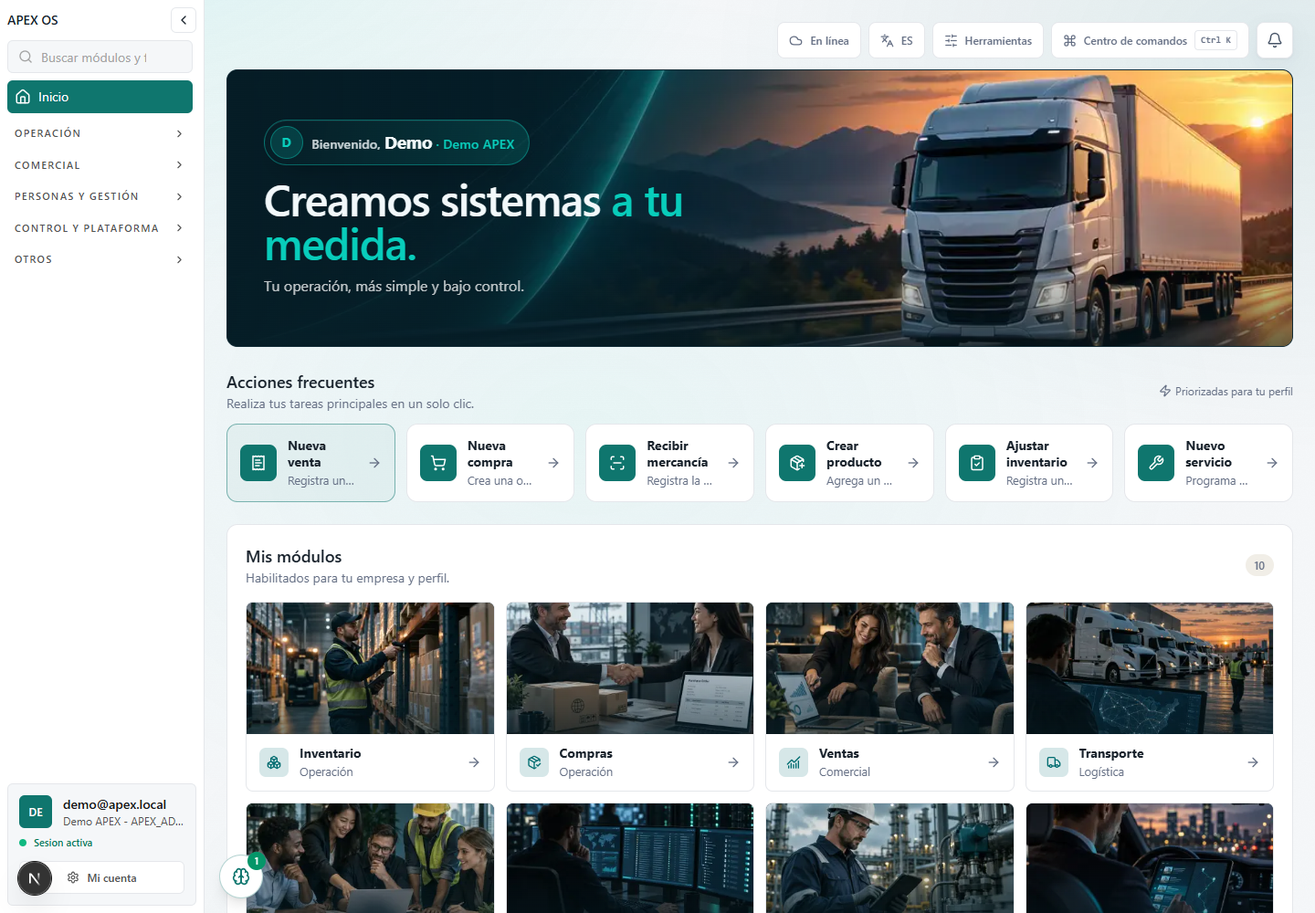
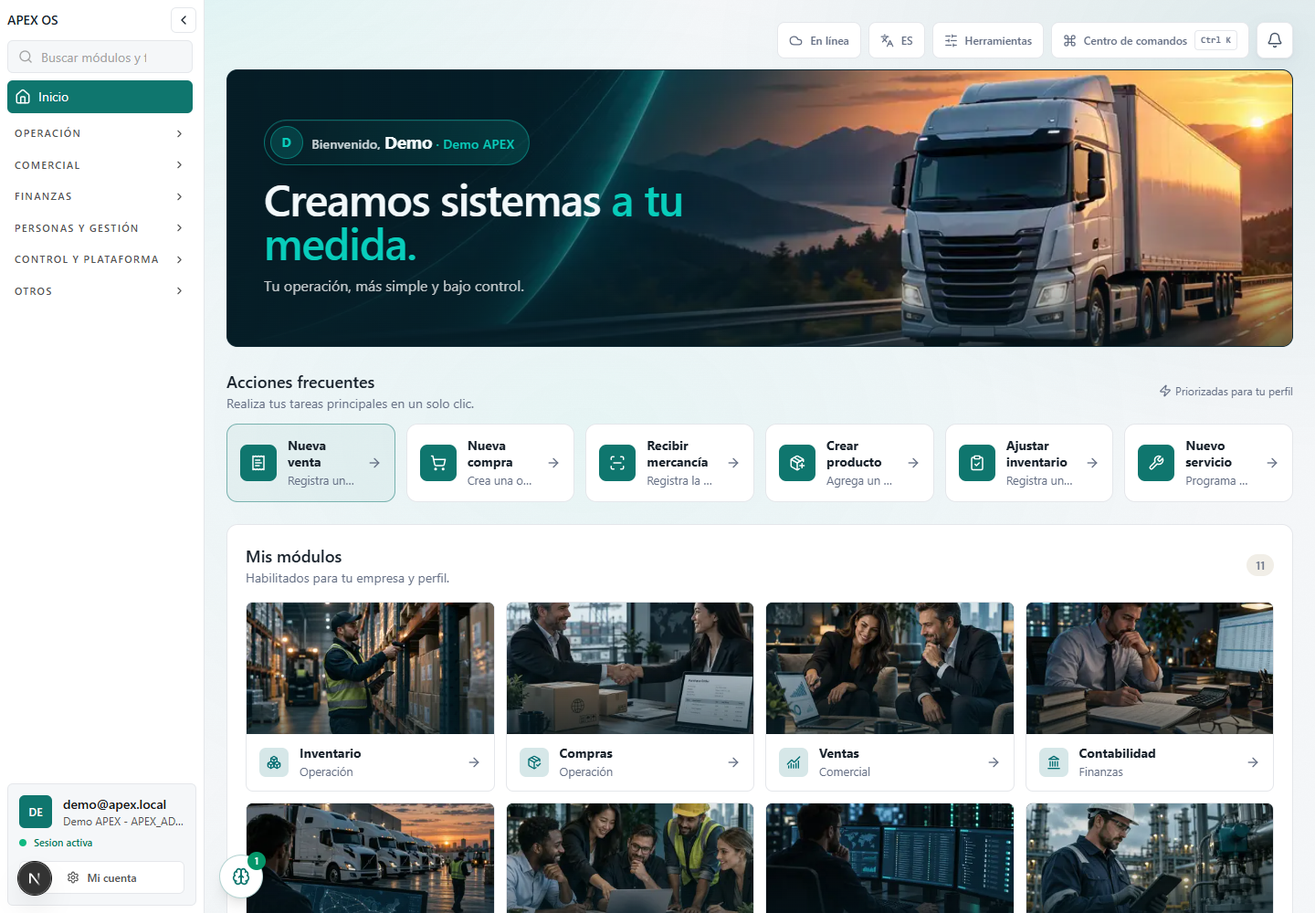
feat(web): contabilidad vuelve al portafolio visible
El dueño advirtió que Contabilidad había salido de la visual sin
autorización: el slug sale de RETIRED_MODULE_SLUGS y vuelven sus 11
funciones al buscador, con lo que el corte queda en 12 visibles y 20
retirados sobre 32 fichas. Tesorería, Proyectos, APEX Control, APEX AI
Core y Cartera y CxC siguen fuera; CxC conserva su guardia y sus enlaces
no regresan a Contabilidad, porque devolver el módulo no es reabrir una
ruta bloqueada.

Evidencia recapturada con sesión real: el lobby pasa de 10 a 11 tiles,
11 enlaces de barra, 0 retirados en tiles o barra, 0 candados y
desbordamiento 0 en ambos temas; «contabilidad» devuelve 10 opciones y
«pyg» 1, mientras los retirados restantes siguen en 0 y las cuatro URLs
de CxC terminan en /dashboard. Suite web 697/697, typecheck y ESLint
limpios.

Changed region(s): [[0.1875, 0.651, 0.9688, 1.0], [0.0, 0.248, 0.125, 0.31], [0.0312, 0.186, 0.0625, 0.217]]

diff --git a/apps/web/lib/moduleFunctions.ts b/apps/web/lib/moduleFunctions.ts
@@ -34,8 +34,21 @@ export const MODULE_FUNCTIONS: ModuleFunction[] = [
   { id: "fn-comercio-configuracion", label: "Configurar la vitrina del comercio", description: "Datos del negocio, redes, WhatsApp y campana de descuentos", href: "/dashboard/comercio/configuracion", module: "comercio", keywords: "configuracion vitrina publica codigo whatsapp instagram facebook campana descuento moneda comercio" },
   { id: "fn-comercio-promociones", label: "Gestionar promociones del comercio", description: "Campanas de descuento por categoria o producto y envio por WhatsApp", href: "/dashboard/comercio/promociones", module: "comercio", keywords: "promocion campana descuento mercadeo audiencia categoria producto whatsapp cliente comercio" },
 
-  // Contabilidad, Tesoreria, Facturacion y Cartera y CxC salieron de la oferta: sus rutas siguen
-  // publicadas, pero no se anuncian en el centro de comandos hasta que el modulo vuelva al portafolio.
+  // Tesoreria, Facturacion y Cartera y CxC salieron de la oferta: sus rutas siguen publicadas,
+  // pero no se anuncian en el centro de comandos hasta que el modulo vuelva al portafolio.
+
+  // Contabilidad
+  { id: "fn-contab-facturas-recibidas", label: "Recibir facturas electrónicas", description: "Monitor de facturas por correo: extracción XML/PDF, revisión y asignación", href: "/dashboard/contabilidad/facturas-recibidas", module: "contabilidad", keywords: "factura electronica recibida recibir correo imap zip xml pdf cufe asignar responsable revision dian proveedor monitor" },
+  { id: "fn-contab-saldos-iniciales", label: "Importar saldos iniciales", description: "Cargue de saldos contables de apertura", href: "/dashboard/contabilidad/importar-saldos-iniciales", module: "contabilidad", keywords: "saldo apertura inicial importar contabilidad" },
+  { id: "fn-contab-pyg", label: "Ver PYG por vehiculo", description: "Estado de resultados por placa: ingresos, gastos y utilidad contra presupuesto", href: "/dashboard/contabilidad/pyg", module: "contabilidad", keywords: "pyg estado resultados utilidad gastos vehiculo placa centro costo presupuesto cumplimiento rentabilidad" },
+  { id: "fn-contab-asientos", label: "Consultar asientos contables", description: "Revisa el registro contable y sus movimientos", href: "/dashboard/contabilidad/asientos", module: "contabilidad", keywords: "asiento contable libro diario comprobante registro movimiento" },
+  { id: "fn-contab-cxp", label: "Gestionar cuentas por pagar", description: "Obligaciones con proveedores y pagos", href: "/dashboard/contabilidad/cuentas-por-pagar", module: "contabilidad", keywords: "cuentas por pagar cxp proveedor obligacion pago cartera" },
+  { id: "fn-contab-estructura", label: "Configurar estructura contable", description: "Centros de costo, periodos y cierre", href: "/dashboard/contabilidad/estructura", module: "contabilidad", keywords: "estructura centro de costo periodo cierre configuracion" },
+  { id: "fn-contab-iva", label: "Gestionar IVA", description: "Maestro y control del impuesto sobre las ventas", href: "/dashboard/contabilidad/iva", module: "contabilidad", keywords: "iva impuesto declaracion ventas tributo" },
+  { id: "fn-contab-plan", label: "Ver plan de cuentas", description: "Catalogo contable de la empresa", href: "/dashboard/contabilidad/plan-cuentas", module: "contabilidad", keywords: "plan cuentas puc catalogo contable" },
+  { id: "fn-contab-reportes", label: "Ver balance de prueba", description: "Estados financieros y saldos por cuenta", href: "/dashboard/contabilidad/reportes", module: "contabilidad", keywords: "balance prueba estados financieros reporte contable libro mayor" },
+  { id: "fn-contab-retenciones", label: "Gestionar retenciones contables", description: "Retenciones practicadas y registradas", href: "/dashboard/contabilidad/retenciones", module: "contabilidad", keywords: "retencion retefuente reteiva impuesto" },
+  { id: "fn-contab-terceros", label: "Gestionar terceros contables", description: "Clientes, proveedores y su informacion fiscal", href: "/dashboard/contabilidad/terceros", module: "contabilidad", keywords: "tercero cliente proveedor nit informacion fiscal" },
 
   // Gastos Menores
   { id: "fn-gm-nuevo-gasto", label: "Registrar gasto menor", description: "Crear un comprobante de caja menor", href: "/dashboard/gastos-menores/gastos/nuevo", module: "gastos-menores", keywords: "nuevo gasto menor registrar comprobante" },

diff --git a/apps/web/lib/modules.ts b/apps/web/lib/modules.ts
@@ -411,7 +411,6 @@ const RETIRED_MODULE_SLUGS = new Set([
   "facturacion-electronica",
   "configuracion-inicial",
   "suscripciones",
-  "contabilidad",
   "tesoreria",
   "proyectos",
   "apex-control",

diff --git a/docs/briefs/2026-11-12-curaduria-portafolio.md b/docs/briefs/2026-11-12-curaduria-portafolio.md
@@ -1,4 +1,4 @@
-# Brief — Curaduría del portafolio: 11 visibles y 21 retirados
+# Brief — Curaduría del portafolio: 12 visibles y 20 retirados
 
 - **ID**: `2026-11-12-curaduria-portafolio`
 - **Fecha**: `2026-11-12`
@@ -21,26 +21,29 @@
   `active_modules` dejan de verse igual, porque el portafolio filtra antes de la habilitación.
 - **Lógica de negocio intacta**: no se cambian consultas, permisos ni datos. El corte es de
   presentación del catálogo; `loadModuleAccess` sigue calculando habilitación exactamente igual.
-- **Corrección de la lista y cierre en 11.** Al recorrer el catálogo completo apareció **APEX AI
+- **Corrección de la lista y cierre en 12.** Al recorrer el catálogo completo apareció **APEX AI
   Core** (`id: "AI-CORE"`), que la tabla previa omitió por su identificador no numérico: el primer
   corte real fue 18/14 sobre 32 fichas. El dueño luego pidió retirar **Facturación** (17/15), marcó
   con X **Contabilidad, Tesorería, Proyectos, APEX Control y APEX AI Core** porque «aún falta mucho
   para trabajarlos» (12/20) y, al final, pidió ocultar **Cartera y CxC** porque «aún no tiene
-  funcionalidad». El corte final es **11 visibles / 21 retirados**.
-- **Siete retirados conservan superficie: se retiran de la oferta, no del código.** Facturación,
-  Contabilidad, Tesorería, Proyectos, APEX Control y APEX AI Core tenían pantalla raíz publicada y
-  siguen respondiendo por URL; **Cartera y CxC** nunca tuvo ficha raíz y, por pedido posterior del
-  dueño («bloquear las rutas de CxC con redirección»), se **cierra con redirección al lobby**: la
-  guardia vive en `app/dashboard/cxc/layout.tsx` para todas sus subrutas y `app/dashboard/cxc/page.tsx`
+  funcionalidad» (11/21). Ese corte se aplicó; el mismo día el dueño advirtió que **Contabilidad**
+  había salido de la visual «sin autorización», así que el slug vuelve a la oferta y sus 11 funciones
+  al buscador: el corte vigente es **12 visibles / 20 retirados**. La X sobre la captura queda como
+  antecedente, no como decisión vigente.
+- **Cinco retirados conservan superficie: se retiran de la oferta, no del código.** Facturación,
+  Tesorería, Proyectos, APEX Control y APEX AI Core tenían pantalla raíz publicada y siguen
+  respondiendo por URL; **Cartera y CxC** nunca tuvo ficha raíz y, por pedido posterior del dueño
+  («bloquear las rutas de CxC con redirección»), se **cierra con redirección al lobby**: la guardia
+  vive en `app/dashboard/cxc/layout.tsx` para todas sus subrutas y `app/dashboard/cxc/page.tsx`
   cubre la raíz. Sus pantallas quedan en el repositorio detrás de la guardia para cuando el módulo
-  vuelva. Se quitan **17 entradas de oferta** (2 de Facturación, 11 de Contabilidad, 1 de Tesorería y
-  3 de CxC), la tarjeta y el enlace que Contabilidad todavía apuntaban a CxC, y el override
-  `moduleHome("cxc")`; ninguna ruta bloqueada puede seguir siendo destino anunciado. La prueba del
-  portafolio declara seis excepciones con ruta heredada y una bloqueada con redirect.
-- **Consecuencia declarada: una superficie queda solo por URL.** El monitor certificado de **Facturas
-  recibidas** (`/dashboard/contabilidad/facturas-recibidas`) pierde su entrada de oferta, sigue
-  cargando por URL directa y deja de anunciarse en el centro de comandos hasta que Contabilidad
-  vuelva al portafolio. La bandeja de CxC, en cambio, ya no es alcanzable.
+  vuelva. Se quitan **6 entradas de oferta** (2 de Facturación, 1 de Tesorería y 3 de CxC), la
+  tarjeta y el enlace que Contabilidad todavía apuntaban a CxC, y el override `moduleHome("cxc")`;
+  ninguna ruta bloqueada puede seguir siendo destino anunciado. La prueba del portafolio declara
+  cinco excepciones con ruta heredada y una bloqueada con redirect.
+- **Consecuencia declarada: la bandeja de CxC queda solo detrás de la guardia.** El monitor
+  certificado de **Facturas recibidas** (`/dashboard/contabilidad/facturas-recibidas`) sigue
+  anunciado por Contabilidad y en el buscador; la tarjeta «Cuentas por cobrar» de Contabilidad y la
+  bandeja de CxC ya no son alcanzables mientras la guardia esté activa.
 - **Verificación funcional de no-regresión**: suite web **697/697**, `typecheck` limpio y ESLint
   sin errores.
 
@@ -52,12 +55,12 @@ perder el trabajo de fichas y assets:
 1. **Criterio medido, no el campo `status`.** Se clasificó por pantalla real, llamada a API y
    certificación. `status` estaba desactualizado: marcaba «En construcción» a Ventas, Facturación,
    Tesorería, Transporte y Talento humano, todos con flujo real.
-2. **Retirar 21 fichas sin borrarlas.** Punto de venta, Costos, Presupuestos, Producción, Recetas,
+2. **Retirar 20 fichas sin borrarlas.** Punto de venta, Costos, Presupuestos, Producción, Recetas,
    Calidad, Devoluciones, Comercio exterior, Activos, CRM, Planeación de demanda, Facturación,
-   Facturación electrónica, Configuración inicial, Suscripciones, Contabilidad, Tesorería,
-   Proyectos, APEX Control, APEX AI Core y Cartera y CxC dejan de ofrecerse; las 14 sin pantalla
-   solo abrían la página genérica `[module]`, las seis con raíz conservan sus rutas publicadas y
-   CxC se bloquea con redirección al lobby.
+   Facturación electrónica, Configuración inicial, Suscripciones, Tesorería, Proyectos, APEX Control,
+   APEX AI Core y Cartera y CxC dejan de ofrecerse; las 14 sin pantalla solo abrían la página
+   genérica `[module]`, las cinco con raíz conservan sus rutas publicadas y CxC se bloquea con
+   redirección al lobby. **Contabilidad permanece visible** por decisión del dueño.
 3. **Corregir la ficha de lo que sí opera.** Ventas, Facturación y Tesorería pasan a «Base
    funcional»; Transporte y Talento humano a «Listo para operar».
 
@@ -65,16 +68,16 @@ perder el trabajo de fichas y assets:
 
 | Estado | Archivo | Qué cambia |
 |---|---|---|
-| `M` | `apps/web/lib/modules.ts` | Constante `RETIRED_MODULE_SLUGS` (21), helpers `isPortfolioModule`/`isRetiredModuleSlug` y listas derivadas `PORTFOLIO_MODULES`/`RETIRED_MODULES`; estados corregidos en 5 fichas |
+| `M` | `apps/web/lib/modules.ts` | Constante `RETIRED_MODULE_SLUGS` (20), helpers `isPortfolioModule`/`isRetiredModuleSlug` y listas derivadas `PORTFOLIO_MODULES`/`RETIRED_MODULES`; estados corregidos en 5 fichas |
 | `M` | `apps/web/app/dashboard/page.tsx` | Lobby filtra por `PORTFOLIO_MODULES` y enlaza con `moduleHome` (CxC abre su superficie real, no la ficha genérica) |
 | `M` | `apps/web/components/shell/Sidebar.tsx` | La barra solo construye ítems del portafolio y usa `moduleHome`: los retirados desaparecen en lugar de quedar como candados |
 | `M` | `apps/web/components/system/CommandPalette.tsx` | Acciones, funciones y módulos del buscador exigen que el módulo esté en el portafolio |
-| `M` | `apps/web/lib/moduleFunctions.ts`, `apps/web/lib/operationalWorkspace.ts` | Salen 17 entradas de oferta: 2 de Facturación, 11 de Contabilidad, 1 de Tesorería y 3 de CxC; además se retira el override `moduleHome("cxc")` porque su destino ya no es alcanzable |
+| `M` | `apps/web/lib/moduleFunctions.ts`, `apps/web/lib/operationalWorkspace.ts` | Salen 6 entradas de oferta (2 de Facturación, 1 de Tesorería y 3 de CxC) y vuelven las 11 de Contabilidad; además se retira el override `moduleHome("cxc")` porque su destino ya no es alcanzable |
 | `M` | `apps/web/app/dashboard/[module]/page.tsx` | Un slug retirado responde `notFound()` aunque el tenant conserve su código en `active_modules` |
 | `A` | `apps/web/app/dashboard/cxc/layout.tsx`, `apps/web/app/dashboard/cxc/page.tsx` | Guardia de la ruta bloqueada: `redirect("/dashboard")` para todas las subrutas de CxC y para su raíz |
 | `M` | `apps/web/app/dashboard/contabilidad/page.tsx`, `apps/web/components/contabilidad-nav.tsx` | Salen la tarjeta y el enlace «Cuentas por cobrar» que todavía apuntaban a la ruta bloqueada |
-| `M` | `apps/web/test/command-palette-module-functions.test.mjs`, `apps/web/test/commercial-visit-selection.test.mjs` | Afirman el nuevo contrato de filtro, `moduleHome`, la exención de rutas de un retirado, que PYG deja de ofrecerse y que la oferta no nombra `/dashboard/cxc` |
-| `A` | `apps/web/test/module-portfolio.test.mjs` | 6 pruebas: 32 fichas / 11 visibles / 21 retirados, pantalla propia por visible, retirado sin pantalla fuera de la ficha genérica, seis excepciones con ruta heredada y una bloqueada con redirect (layout y página), consumidores filtrados, 404 directo, estados corregidos y funciones sin destinos retirados |
+| `M` | `apps/web/test/command-palette-module-functions.test.mjs`, `apps/web/test/commercial-visit-selection.test.mjs` | Afirman el nuevo contrato de filtro, `moduleHome`, la exención de rutas de un retirado, que PYG se ofrece por Contabilidad y que la oferta no nombra `/dashboard/cxc` |
+| `A` | `apps/web/test/module-portfolio.test.mjs` | 6 pruebas: 32 fichas / 12 visibles / 20 retirados, pantalla propia por visible, retirado sin pantalla fuera de la ficha genérica, cinco excepciones con ruta heredada y una bloqueada con redirect (layout y página), consumidores filtrados, 404 directo, estados corregidos y funciones sin destinos retirados |
 | `A` | `docs/qa/evidence/lobby-v4-20261110/evidence-portfolio-lobby-{light,dark}.png`, `evidence-portfolio-metrics.json` | Capturas del lobby con sesión real y métricas de tiles, barra, buscador y URL directa |
 | `M` | `docs/qa/evidence/lobby-v4-20261110/validacion.md` | Ronda 10, filas de cambios y recuento de suite |
 | `A` | `docs/briefs/2026-11-12-curaduria-portafolio.md` | Este brief |
@@ -108,7 +111,7 @@ perder el trabajo de fichas y assets:
 - El certificador `certify-ui-ux-phase-two-local.mjs` exige «Bienvenido,» y «Priorizadas para tu
   perfil»; el lobby conserva ambos.
 - Un módulo visible no puede carecer de pantalla; la prueba lo verifica contra el sistema de archivos.
-- Un retirado no puede reaparecer por `active_modules`, buscador ni URL directa, salvo las seis rutas
+- Un retirado no puede reaparecer por `active_modules`, buscador ni URL directa, salvo las cinco rutas
   heredadas declaradas. CxC no es una de ellas: su raíz y sus subrutas redirigen.
 
 ## 5. Criterios de aceptación
@@ -116,29 +119,31 @@ perder el trabajo de fichas y assets:
 1. `cd apps/web && node --test "test/*.test.mjs"` → **697/697** en verde.
 2. `node --test test/module-portfolio.test.mjs` → **6/6**.
 3. `tsc --noEmit` sin hallazgos y ESLint sin errores.
-4. Evidencia (`evidence-portfolio-metrics.json`): lobby con **10 tiles** para el tenant demo
-   (11 publicados menos Gastos Menores, que no está habilitado en ese tenant), **0** slugs retirados
-   en tiles o barra, **0** candados en la barra, buscador sin fichas ni funciones retiradas
-   («tesoreria», «proyectos», «apex control», «apex ai», «pyg», «cuentas por cobrar» y «crm» → 0) y
-   las fichas genéricas de `punto-de-venta` y `configuracion-inicial` con **404**.
-   Las seis rutas heredadas —`/dashboard/facturacion`, `/dashboard/contabilidad`,
-   `/dashboard/contabilidad/facturas-recibidas`, `/dashboard/tesoreria`, `/dashboard/proyectos`,
+4. Evidencia (`evidence-portfolio-metrics.json`): lobby con **11 tiles** para el tenant demo
+   (12 publicados menos Gastos Menores, que no está habilitado en ese tenant), **0** slugs retirados
+   en tiles o barra, **0** candados en la barra, buscador con **Contabilidad** (10 opciones, incluidas
+   «Recibir facturas electrónicas», «Ver PYG por vehiculo» y «Consultar asientos contables») y sin
+   fichas ni funciones de los retirados restantes («tesoreria», «proyectos», «apex control», «apex
+   ai», «cuentas por cobrar» y «crm» → 0); las fichas genéricas de `punto-de-venta` y
+   `configuracion-inicial` responden **404**.
+   Las cinco rutas heredadas —`/dashboard/facturacion`, `/dashboard/tesoreria`, `/dashboard/proyectos`,
    `/dashboard/apex-control` y `/dashboard/apex-ai`— siguen cargando su pantalla, y las cuatro URLs
    de CxC —`/dashboard/cxc`, `/documentos`, `/retenciones` y `/clientes/1/estado-cuenta`— terminan
    en `/dashboard`. Desbordamiento horizontal `0` en claro y oscuro. `/dashboard/compras`,
-   `/dashboard/comercio`, `/dashboard/inventario`, `/dashboard/ventas` y
-   `/dashboard/talento-humano/rutas` abren pantallas reales.
+   `/dashboard/comercio`, `/dashboard/contabilidad`, `/dashboard/contabilidad/facturas-recibidas`,
+   `/dashboard/inventario`, `/dashboard/ventas` y `/dashboard/talento-humano/rutas` abren pantallas
+   reales.
 5. Las capturas muestran sesión real (`demo@apex.local`, «Sesión activa»).
 
 ## 6. Evidencia y certificación exigida
 
 - Pruebas: suite web **697/697** y `module-portfolio.test.mjs` **6/6**.
 - Evidencia: `docs/qa/evidence/lobby-v4-20261110/evidence-portfolio-lobby-{light,dark}.png` y
-  `evidence-portfolio-metrics.json`; rondas 10 y 11 en `validacion.md`.
-- Nota de lectura del buscador: «punto de venta» devuelve «Vender en el mostrador» y «presupuesto»
-  «Gestionar presupuestos comerciales», ambas funciones de módulos visibles; las consultas de los
-  retirados —incluida «cuentas por cobrar»— devuelven cero resultados; ninguna coincidencia es una
-  ficha ni una función retirada.
+  `evidence-portfolio-metrics.json`; rondas 10, 11 y 12 en `validacion.md`.
+- Nota de lectura del buscador: «punto de venta» devuelve «Vender en el mostrador», «presupuesto»
+  «Gestionar presupuestos comerciales» y «contabilidad» las funciones del módulo devuelto; las
+  consultas de los retirados restantes —incluida «cuentas por cobrar»— devuelven cero resultados;
+  ninguna coincidencia es una ficha ni una función retirada.
 - `certification_status` esperado: `local_passed_qa_pending`.
 
 ## 7. Capacidades protegidas
@@ -159,16 +164,17 @@ perder el trabajo de fichas y assets:
 - Riesgo: que el buscador siga mostrando palabras de un retirado → Medido: solo aparecen funciones
   de módulos visibles; la prueba impide que una función apunte a un retirado.
 - Riesgo: que un flujo certificado dependa de una entrada de oferta retirada → Medido: Facturas
-  recibidas sigue cargando por URL y se declara como consecuencia; si el dueño la quiere de vuelta en
-  el buscador, basta devolver su entrada sin reabrir el módulo completo. CxC ya no es alcanzable y
-  por eso se quitaron también los enlaces que desde Contabilidad apuntaban a ella.
+  recibidas sigue anunciada por Contabilidad y carga por URL; la bandeja de CxC queda detrás de la
+  guardia y por eso se quitaron también los enlaces que desde Contabilidad apuntaban a ella.
 
 ## 9. Supuestos y preguntas abiertas
 
 - Supuesto: retirar del portafolio no exige borrar fichas ni assets; se conservan para retomarlos.
-- Decisión del dueño: el portafolio queda en **11 visibles**; Contabilidad, Tesorería, Proyectos,
-  APEX Control y APEX AI Core salen de la oferta y conservan sus rutas publicadas. Cartera y CxC
-  sale de la oferta **y se bloquea con redirección al lobby**, por pedido explícito posterior.
+- Decisión del dueño: el portafolio queda en **12 visibles**; **Contabilidad permanece en la oferta**
+  tras la corrección del 2026-11-12 («has eliminado de la visual el modulo de contabilidad sin
+  autorizacion»). Tesorería, Proyectos, APEX Control y APEX AI Core salen de la oferta y conservan
+  sus rutas publicadas. Cartera y CxC sale de la oferta **y se bloquea con redirección al lobby**,
+  por pedido explícito posterior.
 - CxC conserva sus pantallas en el repositorio detrás de `app/dashboard/cxc/layout.tsx`; reabrir el
   módulo es quitar la guardia y devolver su oferta, no reconstruir la pantalla.
 - Deuda declarada: alinear `SEED_MODULES` y el plan crown en la API requiere su propia ronda con
@@ -177,9 +183,11 @@ perder el trabajo de fichas y assets:
 ## 10. Autorizaciones requeridas
 
 - [x] Implementación en `desarrollo` (decisión del dueño: corte de portafolio).
-- [x] Portafolio en 11 visibles con Contabilidad, Tesorería, Proyectos, APEX Control, APEX AI Core y
-  Cartera y CxC retirados de la oferta (decisión explícita del dueño, la última con el texto
-  «cartera y cxc también debemos ocultarlo aún no tiene funcionalidad»).
+- [x] Portafolio en 12 visibles con Tesorería, Proyectos, APEX Control, APEX AI Core y Cartera y CxC
+  retirados de la oferta (decisión explícita del dueño, la última con el texto «cartera y cxc
+  también debemos ocultarlo aún no tiene funcionalidad»).
+- [x] Contabilidad vuelve a la oferta (instrucción explícita del dueño: «has eliminado de la visual
+  el modulo de contabilidad sin autorizacion»).
 - [x] Bloqueo de las rutas de Cartera y CxC con redirección al lobby (pedido explícito del dueño:
   «bloquear las rutas de CxC con redirección»).
 - [x] No tocar seeds del backend (decisión explícita del dueño).
@@ -189,10 +197,10 @@ perder el trabajo de fichas y assets:
 
 - **Preflight de agentes**: `OK`; ruteo `equipo-apexos`, `apexos-brief`, `apexos-frontend` y
   `apexos-qa`.
-- **Documentación actualizada**: este brief y `validacion.md` (rondas 10 y 11).
-- **Agentes actualizados**: `apexos-frontend` 2.23.4, `apexos-qa` 2.52.3, `equipo-apexos` 2.30.3 y
-  `apexos-brief` 2.43.3 (el corte de 21 retirados con seis rutas heredadas y CxC bloqueado con
-  redirección).
+- **Documentación actualizada**: este brief y `validacion.md` (rondas 10, 11 y 12).
+- **Agentes actualizados**: `apexos-frontend` 2.24.0, `apexos-qa` 2.54.0, `apexos-brief` 2.45.0 y
+  `equipo-apexos` 2.32.0 (el corte de 20 retirados con cinco rutas heredadas, CxC bloqueado con
+  redirección y Contabilidad devuelta a la oferta por corrección del dueño).
 - **Registro**: `agents/registry.json` y `agents/CHANGELOG.md` en el mismo commit.
 - **Secuencia de cierre**: `agents:sync` → `agents:check` → `test:agents` → `agents:preflight` →
   `agents:coverage` → pruebas → commit → `git push origin desarrollo`.

diff --git a/docs/qa/evidence/lobby-v4-20261110/validacion.md b/docs/qa/evidence/lobby-v4-20261110/validacion.md
@@ -8,6 +8,28 @@ queda sin intervenir hasta la aprobación explícita de la siguiente fase. La ca
 ronda 6 es la excepción deliberada: vive en el layout raíz porque el dueño pidió que el fondo sea
 «aplicable a todas las ventanas», sin cambiar el contenido ni la lógica de ningún módulo.
 
+## Ronda 12 (Contabilidad vuelve a la oferta)
+
+- **Corrección del dueño sobre el corte.** «Veo que estás eliminando visuales que no te pedí … has
+  eliminado de la visual el módulo de Contabilidad sin autorización». El slug `contabilidad` sale de
+  `RETIRED_MODULE_SLUGS` y sus **11 funciones vuelven** al centro de comandos; el portafolio queda en
+  **12 visibles / 20 retirados** sobre 32 fichas. La ficha, sus pantallas y sus assets nunca se
+  borraron, así que la reversión fue quitar el slug del set.
+- **Sin tocar lo que sí se pidió.** Tesorería, Proyectos, APEX Control, APEX AI Core, Facturación y
+  Cartera y CxC siguen retirados, y CxC conserva la guardia que redirige al lobby. La tarjeta y el
+  enlace «Cuentas por cobrar» de Contabilidad siguen fuera: su destino es una ruta bloqueada, y
+  restaurarlos devolvería al usuario al lobby desde una acción anunciada.
+- **Medido, no afirmado.** Con sesión real: **11 tiles** en el lobby (12 publicados menos Gastos
+  Menores, sin derecho en el tenant demo), 11 enlaces de módulo en la barra, 0 slugs retirados en
+  tiles o barra, 0 candados y desbordamiento horizontal 0 en ambos temas. En el buscador
+  «contabilidad» devuelve **10 opciones** (ficha, facturas electrónicas, saldos iniciales, PYG,
+  asientos, cuentas por pagar…) y «pyg» devuelve «Ver PYG por vehiculo»; «tesoreria», «proyectos»,
+  «apex control», «apex ai», «cuentas por cobrar» y «crm» siguen en 0.
+- **Rutas.** `/dashboard/contabilidad` y `/dashboard/contabilidad/facturas-recibidas` cargan su
+  pantalla real; las cuatro URLs de CxC siguen terminando en `/dashboard`.
+- **Verificación.** Suite web **697/697**, `module-portfolio.test.mjs` **6/6** (32 fichas / 12
+  visibles / 20 retirados), `typecheck` limpio y ESLint sin errores.
+
 ## Ronda 11 (Cartera y CxC se bloquea con redirección)
 
 - **El dueño pidió cerrar el acceso, no solo la oferta.** «Bloquear las rutas de CxC con redirección»: la raíz `/dashboard/cxc` y sus cuatro subrutas vuelven al lobby con `redirect("/dashboard")`. Las pantallas permanecen en el repositorio detrás de la guardia para cuando el módulo vuelva, pero ya no se renderizan.
@@ -260,12 +282,12 @@ ronda 6 es la excepción deliberada: vive en el layout raíz porque el dueño pi
 | `apps/web/app/globals.css` | M — ronda 9: `.apex-lobby-eyebrow` como cápsula que abraza su contenido, con avatar, copia, nombre y empresa por nivel tipográfico |
 | `apps/web/test/lobby-greeting.test.mjs` | A — 2 pruebas de contrato: estructura del saludo con avatar y nombre, y escala tipográfica sin desbordar el chip |
 | `docs/qa/evidence/lobby-v4-20261110/evidence-greeting-*.png` y `evidence-greeting-metrics.json` | A — cuatro capturas del hero (escritorio/móvil, claro/oscuro) con métricas medidas |
-| `apps/web/lib/modules.ts` | M — ronda 10: `RETIRED_MODULE_SLUGS`, helpers y listas del portafolio (11 visibles / 21 retirados); estados corregidos en Ventas, Facturación, Tesorería, Transporte y Talento humano |
+| `apps/web/lib/modules.ts` | M — ronda 10: `RETIRED_MODULE_SLUGS`, helpers y listas del portafolio (12 visibles / 20 retirados tras la ronda 12); estados corregidos en Ventas, Facturación, Tesorería, Transporte y Talento humano |
 | `apps/web/app/dashboard/page.tsx`, `apps/web/components/shell/Sidebar.tsx` | M — filtran por `PORTFOLIO_MODULES` y enlazan con `moduleHome`; los retirados dejan de pintarse |
 | `apps/web/components/system/CommandPalette.tsx`, `apps/web/app/dashboard/[module]/page.tsx` | M — el buscador exige portafolio y la ficha genérica de un retirado responde 404 |
-| `apps/web/lib/moduleFunctions.ts`, `apps/web/lib/operationalWorkspace.ts` | M — salen 17 entradas de oferta (2 de Facturación, 11 de Contabilidad, 1 de Tesorería y 3 de CxC); sus rutas siguen operativas |
-| `apps/web/test/module-portfolio.test.mjs` | A — 6 pruebas del corte (fichas, pantallas con seis excepciones de ruta heredada y una de subrutas, consumidores, 404, estados y funciones) |
-| `apps/web/test/command-palette-module-functions.test.mjs`, `apps/web/test/commercial-visit-selection.test.mjs` | M — contrato actualizado al filtro de portafolio, a `moduleHome`, a la exención de rutas de un retirado y a que PYG y CxC dejan de ofrecerse |
+| `apps/web/lib/moduleFunctions.ts`, `apps/web/lib/operationalWorkspace.ts` | M — salen 6 entradas de oferta (2 de Facturación, 1 de Tesorería y 3 de CxC) y vuelven las 11 de Contabilidad en la ronda 12; sus rutas siguen operativas |
+| `apps/web/test/module-portfolio.test.mjs` | A — 6 pruebas del corte (fichas, pantallas con cinco excepciones de ruta heredada y una bloqueada, consumidores, 404, estados y funciones) |
+| `apps/web/test/command-palette-module-functions.test.mjs`, `apps/web/test/commercial-visit-selection.test.mjs` | M — contrato actualizado al filtro de portafolio, a `moduleHome`, a la exención de rutas de un retirado, a que PYG vuelve con Contabilidad y a que CxC deja de ofrecerse |
 | `docs/qa/evidence/lobby-v4-20261110/evidence-portfolio-lobby-{light,dark}.png` y `evidence-portfolio-metrics.json` | A — lobby y métricas del corte con sesión real |
 
 ## Validación ejecutada
@@ -305,6 +327,12 @@ ronda 6 es la excepción deliberada: vive en el layout raíz porque el dueño pi
     `/dashboard/contabilidad/facturas-recibidas`; las cuatro URLs de Cartera y CxC —`/dashboard/cxc`,
     `/documentos`, `/retenciones` y `/clientes/1/estado-cuenta`— terminan en `/dashboard` por la
     guardia de la ronda 11. Compras, Comercio, Inventario, Ventas y mallas abren pantallas reales.
+  - Ronda 12, mismas dos capturas y métricas regeneradas tras devolver Contabilidad: **11 tarjetas**
+    (12 publicadas menos Gastos Menores), 11 enlaces de módulo, `retiredVisible` y
+    `retiredLabelsInSidebar` vacíos, 0 candados y desbordamiento `0` en ambos temas; «contabilidad»
+    devuelve 10 opciones y «pyg» una, mientras «tesoreria», «proyectos», «apex control», «apex ai»,
+    «cuentas por cobrar» y «crm» siguen en 0; `/dashboard/contabilidad` y su monitor de facturas
+    recibidas cargan, y las cuatro URLs de CxC siguen terminando en `/dashboard`.
 - Rendimiento del fondo medido en el arnés (2 s de desplazamiento, escritorio): con y sin la capa,
   16,67 ms promedio, p95 16,8 ms, 0 cuadros sobre 33 ms, 0 layouts y 0 scripts; ninguna petición de
   red nueva.
@@ -331,11 +359,11 @@ ronda 6 es la excepción deliberada: vive en el layout raíz porque el dueño pi
    prefiere fotografía real de la operación, se sustituyen los assets sin tocar código.
 4. Los seeds del backend (`SEED_MODULES` y el plan corona en
    `apps/api/src/modules/auth/service.js`) siguen habilitando `M-01…M-27` por decisión del dueño:
-   el corte es de catálogo y no de suscripción, así que los 21 retirados siguen viajando en
+   el corte es de catálogo y no de suscripción, así que los 20 retirados siguen viajando en
    `active_modules` aunque ninguna superficie los ofrezca. Alinearlos es una ronda de backend aparte.
-   Los seis retirados con ruta raíz publicada (Facturación, Contabilidad, Tesorería, Proyectos,
-   APEX Control y APEX AI Core) las conservan accesibles por URL directa; el monitor de Facturas
-   recibidas es el caso más visible de esa asimetría entre oferta y código. Cartera y CxC ya no
+   Los cinco retirados con ruta raíz publicada (Facturación, Tesorería, Proyectos, APEX Control y
+   APEX AI Core) las conservan accesibles por URL directa; el monitor de Facturas recibidas ya no es
+   una asimetría desde la ronda 12, porque vuelve a anunciarse con Contabilidad. Cartera y CxC ya no
    presenta asimetría: su raíz y sus subrutas redirigen al lobby desde la ronda 11.
 
 ## Reproducir
